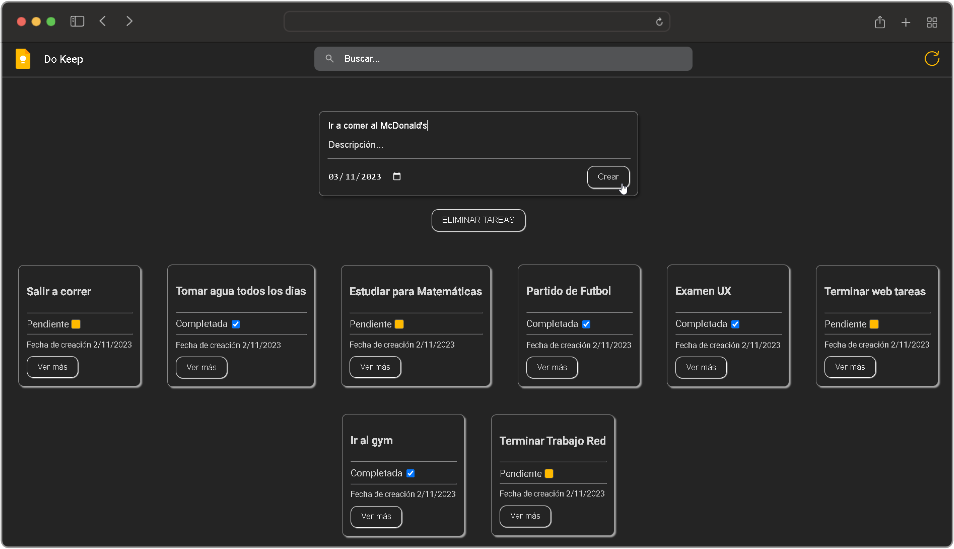
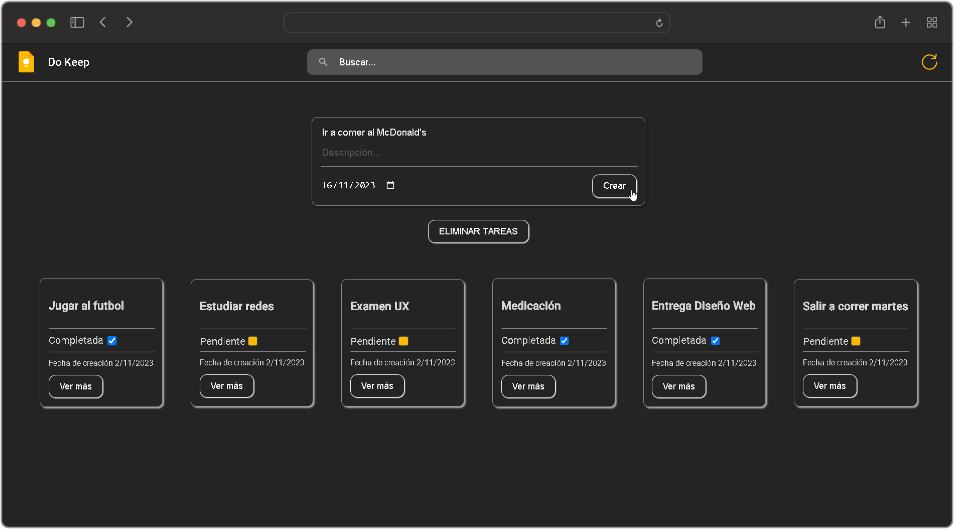
modifico estilos de responsive

diff --git a/css/styles.css b/css/styles.css
@@ -89,6 +89,10 @@ nav a:hover {
 }
 
 /* FLAGS */
+.checkbox-div {
+    padding: 6px;
+}
+
 .checkbox-div .switch {
     display: none;
   }
@@ -526,11 +530,24 @@ button {
 
 @media screen and (max-width: 767px) {
     footer {
-        background-color: transparent;
+        background: linear-gradient(to bottom, rgba(0, 0, 0, 1), rgba(255, 255, 255, 0));
+    }
+
+    .container-card .button {
+        font-size: 16px;
+    }
+
+    .my-name {
+        font-size: 75px;
     }
 
     h1 {
         font-size: 55px;
+    }
+
+    .main-index {
+        padding-top: 6.5rem;
+        padding-bottom: 4rem;
     }
 
     .checkbox-div label {

diff --git a/css/contact.css b/css/contact.css
@@ -48,7 +48,7 @@ form label {
     justify-content: space-between;
     align-items: flex-start;
     gap: 15px;
-    padding: 6rem;
+    padding: 4rem;
 }
 
 .form-container {
@@ -92,13 +92,21 @@ iframe {
     .contact-main {
         flex-direction: column;
     }
+    .contact-main h2 {
+        font-size: 40px;
+    }
+    .contact-form {
+        margin: 0rem;
+    }
     .form-container {
-        width: 100%;
+        display: flex;
+        align-items: center;
+        width: 94%;
         align-items: center;
     }
 
     aside {
-        width: 100%;
+        width: 98%;
     }
 
     iframe {

diff --git a/css/work.css b/css/work.css
@@ -24,6 +24,7 @@
     align-items: center;
     width: 100%;
     opacity: 85%;
+    padding: 4px;
 }
 
 .container-card button a {
@@ -159,6 +160,9 @@
 @media (max-width: 767px) {
     .card {
         max-width: 90%;
+    }
+    .left p {
+        font-size: 19px;
     }
     .logo-work {
         width: 30px;

diff --git a/css/about.css b/css/about.css
@@ -196,4 +196,7 @@ main p {
         padding: 5px;
         transition: 0.3s ease;
     }
+    .info .personal h1 {
+        font-size: 60px;
+    }
 }
